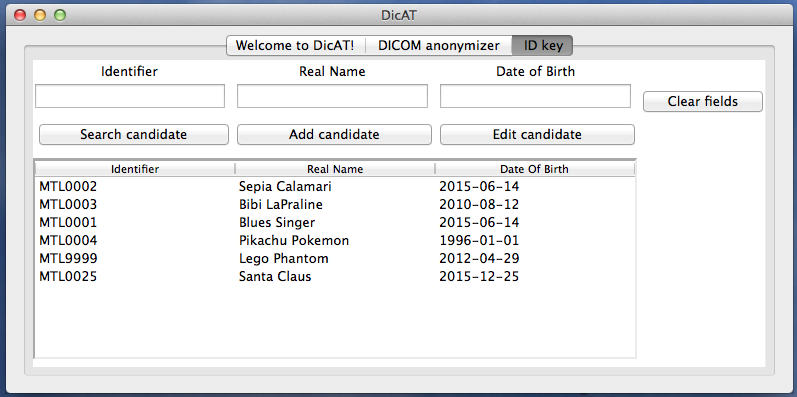
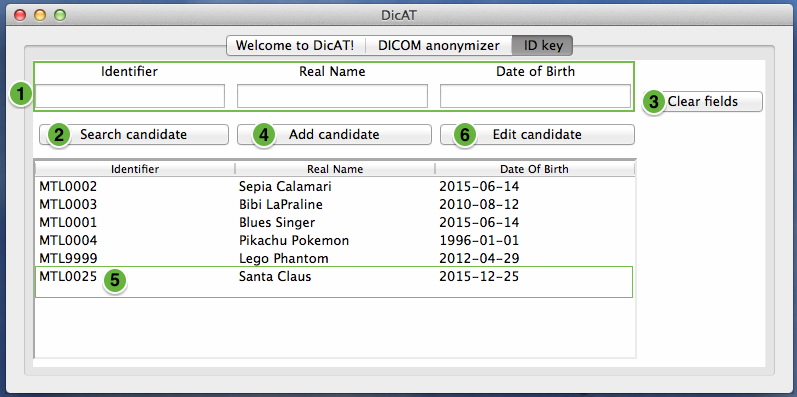
Finished a first draft of documentation.

Changed region(s): [[0.0, 0.1511, 0.8432, 0.3929], [0.1205, 0.665, 0.1807, 0.7557]]

diff --git a/README.md b/README.md
@@ -1,11 +1,11 @@
 # DicAT (DICOM Anonymization Tool)
 
-With the increasing use of web-based database systems, such as [LORIS](http://www.loris.ca) ([Das et al., 2011](http://journal.frontiersin.org/article/10.3389/fninf.2011.00037/full), [Das et al., 2016](http://www.sciencedirect.com/science/article/pii/S1053811915008009)), for large scale imaging studies, anonymization of DICOM datasets becomes a requirement before they can be uploaded in such databases.
+With the increasing use of web-based database systems, such as [LORIS](http://www.loris.ca) ([Das *et al.*, 2011](http://journal.frontiersin.org/article/10.3389/fninf.2011.00037/full), [Das *et al.*, 2016](http://www.sciencedirect.com/science/article/pii/S1053811915008009)), for large scale imaging studies, de-identification of DICOM datasets becomes a requirement before they can be uploaded in such databases.
 
 ![Flow Chart](images/TypicFlowChartOfDICOMdeidentification.png)
-***Typical Flow Chart of DICOM de-identification.*** *Before DICOM datasets can be uploaded into a web-based database, identifying information stored in the DICOM header (e.g. patient name, date of birth...) needs to be removed. DicAT produces two archival outputs, one with a back up of the original DICOMs and one with the de-identified DICOMs that can then be uploaded into other systems.* 
+***Typical Flow Chart of DICOM de-identification.*** *Before DICOM datasets can be uploaded into a web-based database, identifying information stored in the DICOM header (e.g. patient name, date of birth...) need to be removed. DicAT produces two archival outputs, one with a back-up of the original DICOM files and one with the de-identified DICOM datasets that can then be uploaded into other systems.* 
 
-DicAT is a simple graphical tool that facilitates DICOM de-identification directly on the workstation with its embedded ID key feature that saves a mapping of the candidates real name to their ID for reference in longitudinal studies. 
+DicAT is a simple graphical tool that facilitates DICOM de-identification directly on the workstation with its embedded ID key feature that saves a key with the candidates' real name and identifiers for reference in longitudinal studies. 
 
 This tool, which works on all operating systems and is very light in terms of dependencies, was originaly created during the OHBM 2014 and 2015 Hackathons. 
 
@@ -18,7 +18,7 @@ Running DicAT will open a window with three different tabs:
 
 * A simple **"Welcome to DicAT"** tab giving a short description of the tool
 * A **"DICOM anonymizer"** tab, in which de-identification of DICOMs will take place 
-* An **"ID Mapper"** tab, containing the key between patient's names and their IDs.
+* An **"ID Key"** tab, containing the key between patient's names and their IDs.
 
 ![Welcome page](images/Welcome_DicAT.png)
 ***Welcome page of DicAT.***
@@ -50,8 +50,12 @@ Once the archive has been extracted, double-clicking on the ==anonymizer_gui.exe
 ***View DICOM fields and anonymize the dataset.*** *Once a directory containing DICOM files have been selected (as described in the above section), the DICOM fields can be viewable when clicking on the “View DICOM fields” button (1). The DICOM fields will be displayed in a table with editable fields in black (2) and non-editable fields greyed out (3). By default, editable fields are “PatientName”, “PatientBirthDate” and “PatientSex”. The “Clear” button (4) will erase values from all editable fields. The non-editable fields will be replaced by empty strings in the DICOM files when running the anonymization, while the editable fields will be replaced by what is being entered by the user. Finally, once the user has finalized the edits, clicking on the “Anonymize” button (5) will run the anonymization tool on the DICOM dataset.*
 
 
-## How to use the ID Mapper of DicAT
+## How to use the ID Key of DicAT
 
+The ID Key feature of DicAT allows storage of the key between identifiable patient's information (*Real Name* and *Date of Birth*) and study’s identifiers that will be used for de-identification. This information will be kept on the workstation. See the following figure for detailed information on how to use this feature.
+
+![ID Key](images/ID_Mapper.png)
+***ID key feature of DicAT.*** *This feature allows storage of the mapping information between patient’s information and study IDs. A candidate can be looked up using the* “Search candidate” *button (2) after having entered either the* “Identifier” *or the* “Real Name” *text fields available in the top row (1). The* “Clear fields” *button (3) allows clearing the text in those text fields. A new candidate can be registered using the* “Add candidate” *button (4) after having entered the* “Identifier”*,* “Real Name” *and* “Date of birth” *information in the text fields of the top row (1). Clicking on a subject row (5) of the table displayed at the bottom of the application will automatically populate the text fields (1) with the information of the candidate. The* “Real Name” *or* “Date of birth” *of that candidate can be edited if needed by altering the field and clicking on the* “Edit candidate” *button (6).*
 
 ## Authors
 
@@ -59,8 +63,10 @@ Ayan Sengupta <uam111@gmail.com>              - Concept, DICOM-toolkit implement
 
 Cecile Madjar <cecile.madjar@gmail.com>       - GUI implementation, PyDICOM implementation, python integration of DICOM-toolkit
 
-Dave MacFarlane <david.macfarlane2@mcgill.ca> - ID Mapper
+Dave MacFarlane <david.macfarlane2@mcgill.ca> - ID Key
 
 Samir Das <samir.das@mcgill.ca>               - Concept and guidance
 
 Daniel Krötz <d.kroetz@fz-juelich.de>         - Documentation, testing on Windows
+
+Christine Rogers <christine.rogers@mcgill.ca> - Documentation
